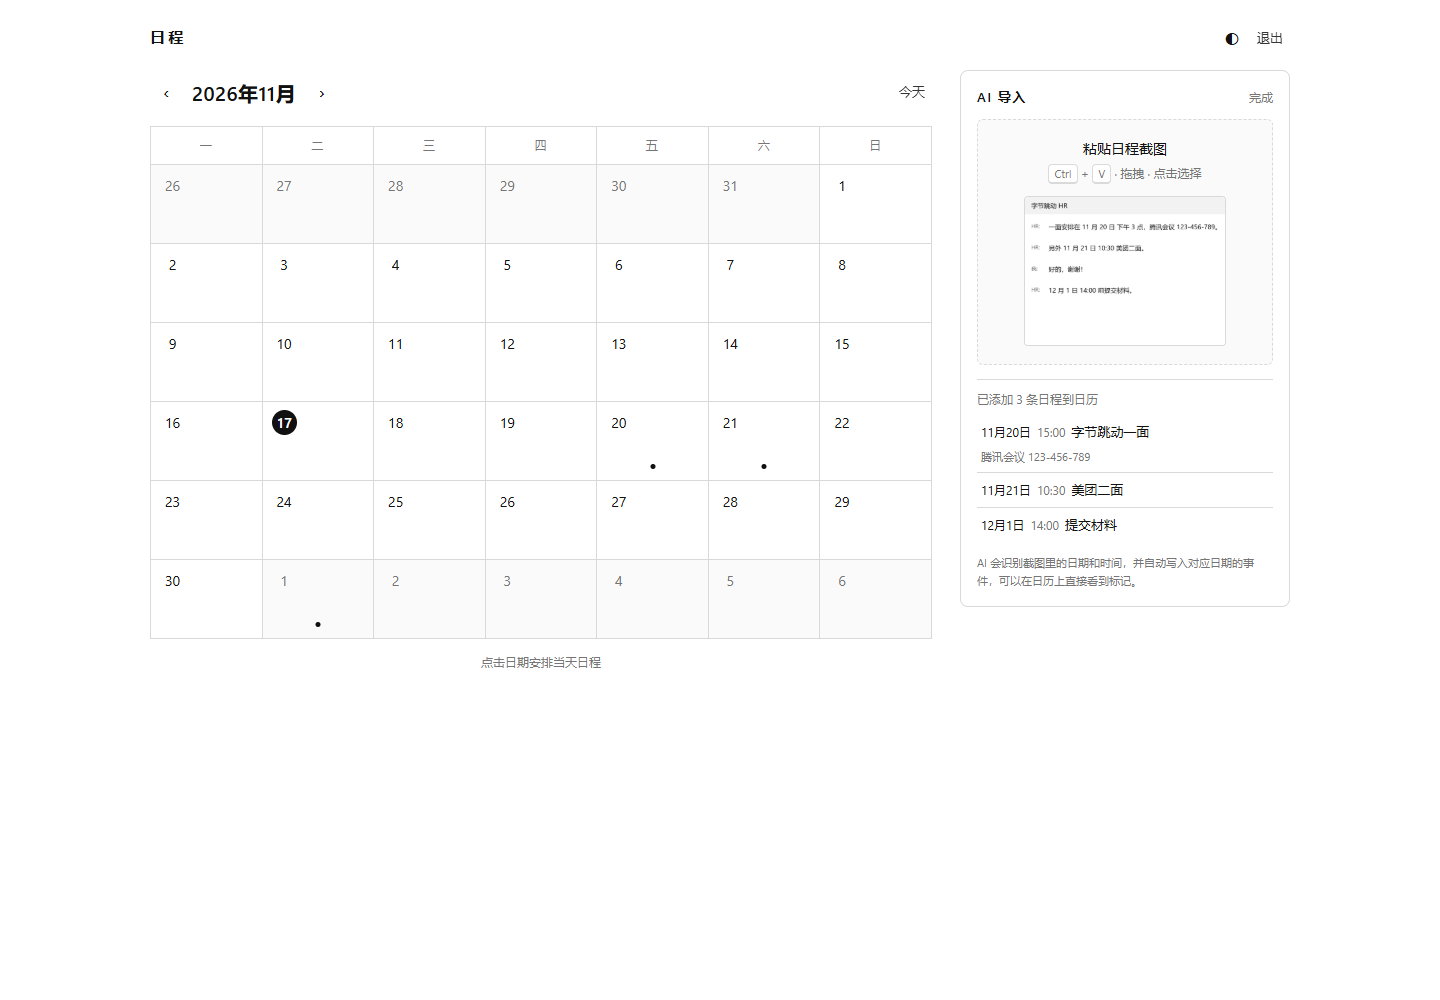
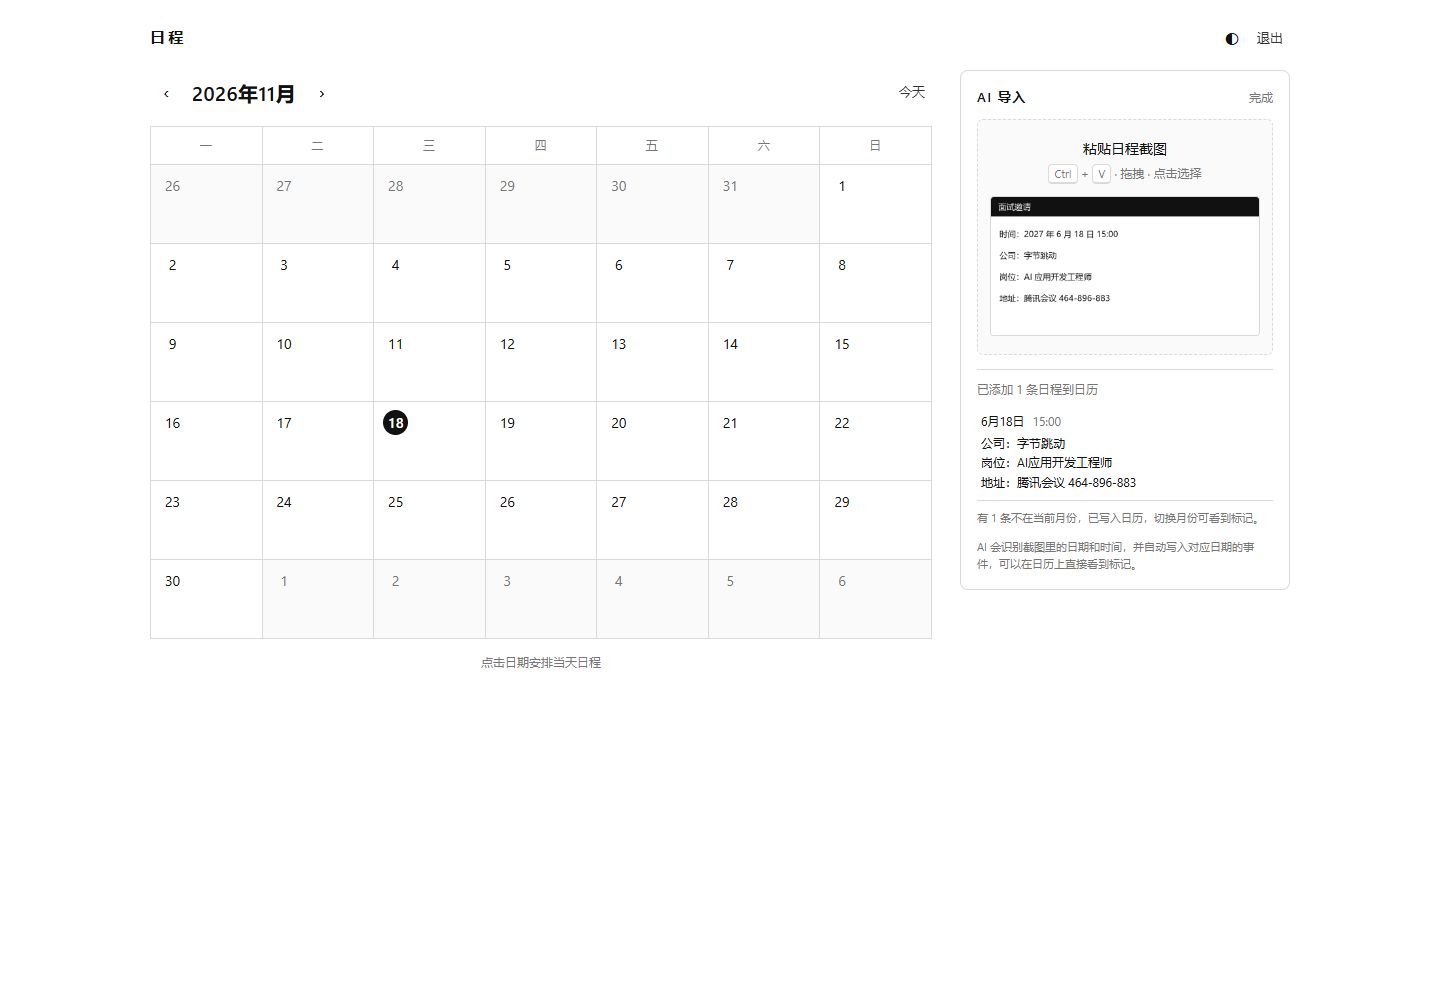
feat: AI 日程按时间/公司/岗位/地址四字段解析与展示
- 提示词与校验改为 company/role/address，兼容旧 title/note 回退
- 事件行格式：15:00 公司：X｜岗位：Y｜地址：Z
- AI 结果面板按四个字段分行展示，时间统一 24 小时制
- 更新测试与 README 截图

diff --git a/static/ai.js b/static/ai.js
@@ -83,10 +83,10 @@
     var link = document.createElement('a');
     link.className = 'ai-item' + (skipped ? ' is-skipped' : '');
     link.href = dayTemplate.replace('1970-01-01', event.date);
-    link.title = '打开当天日程';
-    if (skipped) {
-      link.title = '这条已经存在，未重复添加';
-    }
+    link.title = skipped ? '这条已经存在，未重复添加' : '打开当天日程';
+
+    var head = document.createElement('span');
+    head.className = 'ai-item-head';
 
     var date = document.createElement('span');
     date.className = 'ai-date';
@@ -96,20 +96,42 @@
     time.className = 'ai-time' + (event.time ? '' : ' is-unset');
     time.textContent = event.time || '未识别时间';
 
-    var title = document.createElement('span');
-    title.className = 'ai-title';
-    title.textContent = event.title + (skipped ? '（已存在）' : '');
-
-    link.appendChild(date);
-    link.appendChild(time);
-    link.appendChild(title);
-
-    if (event.note) {
-      var note = document.createElement('span');
-      note.className = 'ai-line-note';
-      note.textContent = event.note;
-      link.appendChild(note);
+    head.appendChild(date);
+    head.appendChild(time);
+    if (skipped) {
+      var skip = document.createElement('span');
+      skip.className = 'ai-skip';
+      skip.textContent = '已存在';
+      head.appendChild(skip);
     }
+
+    var fields = document.createElement('span');
+    fields.className = 'ai-fields';
+    var rows = [];
+    if (event.company) {
+      rows.push('公司：' + event.company);
+    }
+    if (event.role) {
+      rows.push('岗位：' + event.role);
+    }
+    if (event.address) {
+      rows.push('地址：' + event.address);
+    }
+    if (!rows.length && event.title) {
+      rows.push(event.title);
+    }
+    if (!rows.length && event.note) {
+      rows.push(event.note);
+    }
+    rows.forEach(function (text) {
+      var field = document.createElement('span');
+      field.className = 'ai-field';
+      field.textContent = text;
+      fields.appendChild(field);
+    });
+
+    link.appendChild(head);
+    link.appendChild(fields);
     return link;
   }
 

diff --git a/static/style.css b/static/style.css
@@ -816,11 +816,10 @@ body.no-scroll {
 }
 
 .ai-item {
-  display: grid;
-  grid-template-columns: auto auto minmax(0, 1fr);
-  gap: 6px;
-  align-items: baseline;
-  padding: 7px 4px;
+  display: flex;
+  flex-direction: column;
+  gap: 3px;
+  padding: 8px 4px;
   border-bottom: 1px solid var(--line);
   color: var(--fg);
   text-decoration: none;
@@ -832,6 +831,13 @@ body.no-scroll {
 
 .ai-item:hover {
   background: var(--hover);
+}
+
+.ai-item-head {
+  display: flex;
+  align-items: baseline;
+  flex-wrap: wrap;
+  gap: 8px;
 }
 
 .ai-date {
@@ -851,16 +857,24 @@ body.no-scroll {
   opacity: 0.8;
 }
 
-.ai-title {
-  font-size: 13px;
+.ai-fields {
+  display: flex;
+  flex-direction: column;
+  gap: 1px;
+}
+
+.ai-field {
+  font-size: 12px;
+  line-height: 1.55;
   overflow-wrap: anywhere;
 }
 
-.ai-line-note {
-  grid-column: 1 / -1;
-  font-size: 11px;
+.ai-skip {
+  padding: 0 6px;
+  border: 1px solid var(--line);
+  border-radius: 999px;
+  font-size: 10px;
   color: var(--muted);
-  overflow-wrap: anywhere;
 }
 
 .ai-item.is-skipped {

diff --git a/app.py b/app.py
@@ -222,26 +222,31 @@ def _normalize_ai_time(value: str) -> str:
 
 
 def _normalize_ai_events(payload: dict | None) -> list[dict]:
-    """校验模型返回的 events，输出干净的 {date,time,title,note} 列表。"""
+    """校验模型返回的 events，输出干净的 {date,time,company,role,address} 列表。"""
     if not isinstance(payload, dict):
         return []
     raw_events = payload.get("events")
     if not isinstance(raw_events, list):
         return []
+
+    def clean(value, limit: int) -> str:
+        return str(value or "").strip().replace("\n", " ")[:limit]
+
     events: list[dict] = []
-    seen: set[tuple[str, str, str]] = set()
+    seen: set[tuple[str, str, str, str, str]] = set()
     for raw in raw_events[:20]:
         if not isinstance(raw, dict):
             continue
-        date_value = _valid_date(str(raw.get("date") or "").strip())
+        date_value = _valid_date(clean(raw.get("date"), 10))
         if date_value is None:
             continue
         time_value = _normalize_ai_time(str(raw.get("time") or ""))
-        title = str(raw.get("title") or "").strip().replace("\n", " ")[:80]
-        note = str(raw.get("note") or "").strip().replace("\n", " ")[:100]
-        if not title:
+        company = clean(raw.get("company"), 60)
+        role = clean(raw.get("role") or raw.get("position") or raw.get("title"), 60)
+        address = clean(raw.get("address") or raw.get("location") or raw.get("note"), 180)
+        if not (company or role or address):
             continue
-        key = (date_value.isoformat(), time_value, title)
+        key = (date_value.isoformat(), time_value, company, role, address)
         if key in seen:
             continue
         seen.add(key)
@@ -249,19 +254,24 @@ def _normalize_ai_events(payload: dict | None) -> list[dict]:
             {
                 "date": date_value.isoformat(),
                 "time": time_value,
-                "title": title,
-                "note": note,
+                "company": company,
+                "role": role,
+                "address": address,
             }
         )
     return events
 
 
 def _ai_event_line(event: dict) -> str:
-    line = f"{event.get('time', '')} {event.get('title', '')}".strip()
-    note = (event.get("note") or "").strip()
-    if note and note not in {"无", "暂无", "-", "—"}:
-        line = f"{line}（{note[:80]}）"
-    return line[:180]
+    parts = []
+    if event.get("company"):
+        parts.append(f"公司：{event['company']}")
+    if event.get("role"):
+        parts.append(f"岗位：{event['role']}")
+    if event.get("address"):
+        parts.append(f"地址：{event['address']}")
+    body = "｜".join(parts)
+    return f"{event.get('time', '')} {body}".strip()[:240]
 
 
 def create_app(data_dir: str | Path | None = None) -> Flask:
@@ -423,12 +433,12 @@ def create_app(data_dir: str | Path | None = None) -> Flask:
         prompt = f"""你是日程截图解析助手。当前时间：{now.strftime('%Y-%m-%d %H:%M')}（{tz_name}，星期{weekday}）。
 截图可能来自聊天记录、招聘软件、邮件或日历。请提取其中对用户自己有效的日程、面试、会议和待办。
 只输出严格 JSON，不要 markdown，不要解释：
-{{"events":[{{"date":"YYYY-MM-DD","time":"HH:MM 或空","title":"简短标题","note":"补充信息"}}]}}
+{{"events":[{{"date":"YYYY-MM-DD","time":"HH:MM 或空","company":"公司名","role":"岗位/职位","address":"地址或线上会议信息"}}]}}
 规则：
 1. date 用截图里能确定的绝对日期；相对日期（今天/明天/后天/下周一/本周五等）按当前时间换算成具体日期；截图完全没有日期时不要输出这一条。
 2. time 必须是截图中真实出现的时间，用 24 小时制 HH:MM；时间段取开始时间（如 15:00-16:00 记 15:00）；截图只有日期、没有具体时间时留空；绝对不要用当前时间填充。
-3. title 用简洁中文，优先包含公司/对象+事项，例如「字节跳动一面」「美团二面」「提交材料」；不要把日期、时间、会议软件名、会议号、链接放进 title。
-4. note 只放会议链接、会议号、地点、需要准备的材料等具体补充信息；没有就留空。
+3. company 只填公司名，role 填岗位/职位；只填截图里明确出现的信息，不确定就留空，不要用部门、人名或会议软件名冒充公司名。
+4. address 填面试/会议地址；线上会议填会议软件 + 链接/会议号，例如「腾讯会议 464-896-883」或完整链接；没有地址就留空。
 5. 同一日程只输出一次；截图里没有明确日程时输出 {{"events":[]}}。"""
         image_b64 = base64.b64encode(image_bytes).decode("ascii")
         payload = {

diff --git a/tests/test_app.py b/tests/test_app.py
@@ -394,19 +394,23 @@ class SchedulTestCase(unittest.TestCase):
     def test_ai_normalization(self):
         payload = app_module._extract_json_object(
             '```json\n{"events":[{"date":"2026-11-20","time":"9:05",'
-            '"title":" 面试 ","note":"腾讯会议 123"},'
+            '"company":"字节跳动","role":"AI 应用开发","address":"腾讯会议 123"},'
             '{"date":"2026-11-21","time":"25:00","title":"提交材料","note":""}]}\n```'
         )
         events = app_module._normalize_ai_events(payload)
         self.assertEqual(len(events), 2)
         self.assertEqual(events[0]["date"], "2026-11-20")
         self.assertEqual(events[0]["time"], "09:05")
-        self.assertEqual(events[0]["title"], "面试")
+        self.assertEqual(events[0]["company"], "字节跳动")
+        self.assertEqual(events[0]["role"], "AI 应用开发")
+        self.assertEqual(events[0]["address"], "腾讯会议 123")
         self.assertEqual(events[1]["time"], "")
+        self.assertEqual(events[1]["role"], "提交材料")
         self.assertEqual(
-            app_module._ai_event_line(events[0]), "09:05 面试（腾讯会议 123）"
+            app_module._ai_event_line(events[0]),
+            "09:05 公司：字节跳动｜岗位：AI 应用开发｜地址：腾讯会议 123",
         )
-        self.assertEqual(app_module._ai_event_line(events[1]), "提交材料")
+        self.assertEqual(app_module._ai_event_line(events[1]), "岗位：提交材料")
 
     def test_ai_time_formats(self):
         cases = {
@@ -447,8 +451,8 @@ class SchedulTestCase(unittest.TestCase):
         )
         content = (
             '```json\n{"events":['
-            '{"date":"2026-11-20","time":"15:00","title":"字节跳动一面","note":"腾讯会议 123"},'
-            '{"date":"2026-11-20","time":"10:00","title":"提交材料","note":""}'
+            '{"date":"2026-11-20","time":"15:00","company":"字节跳动","role":"智能体开发","address":"腾讯会议 123"},'
+            '{"date":"2026-11-20","time":"10:00","company":"美团","role":"二面","address":""}'
             "]}\n```"
         )
         body = json.dumps({"choices": [{"message": {"content": content}}]}).encode()
@@ -477,8 +481,8 @@ class SchedulTestCase(unittest.TestCase):
         self.assertEqual(data["skipped"], [])
 
         stored = self.client.get("/api/days/2026-11-20").get_json()["event"]
-        self.assertIn("15:00 字节跳动一面（腾讯会议 123）", stored)
-        self.assertIn("10:00 提交材料", stored)
+        self.assertIn("15:00 公司：字节跳动｜岗位：智能体开发｜地址：腾讯会议 123", stored)
+        self.assertIn("10:00 公司：美团｜岗位：二面", stored)
 
         app_module._AI_LAST_CALL.clear()
         with patch.object(
